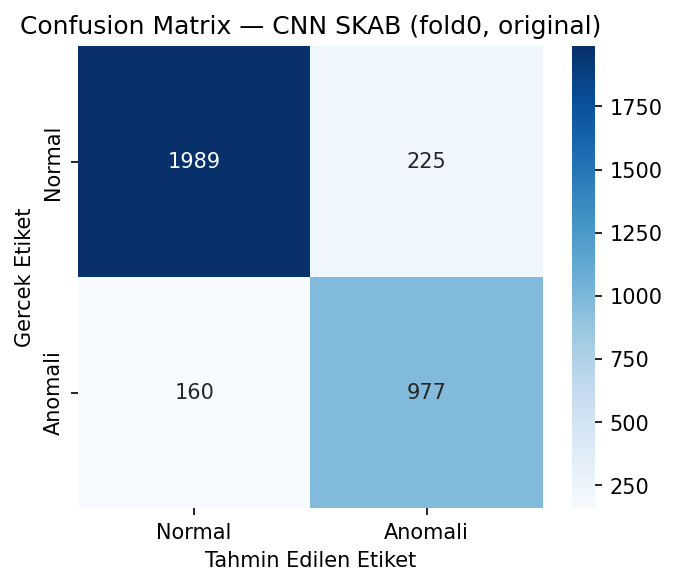
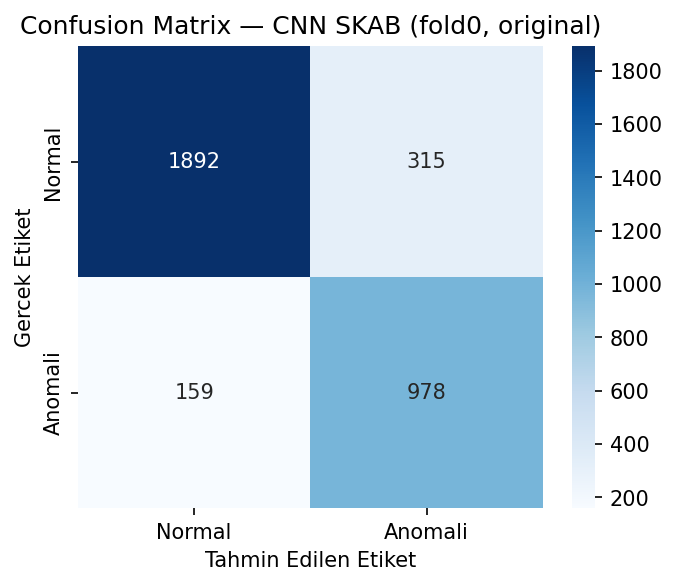
README ve gorseller yeni egitim sonuclariyla guncellendi
- SKAB tablolari yeni source_file gruplamasiyla yeniden uretilen sonuclarla guncellendi (SKAB'da en iyi F1 artik LSTM=0.9066)
- BATADAL LSTM/Automata degerleri tazelendi
- Istatistiksel analiz: SKAB'da tum model ciftleri artik anlamli (GRU vs CNN p=0.0022)
- Parametre analizi: en iyi F1 ws=5/as=5 (0.2362)
- Tum gorseller guncel results/ uzerinden yeniden uretildi

diff --git a/README.md b/README.md
@@ -36,15 +36,17 @@ Modeller yalnızca performans değil; gürültüye dayanıklılık, unseen veri 
 
 ### SKAB (Skoltech Anomaly Benchmark)
 - Kaynak: `data/raw/SKAB/valve1/` ve `valve2/` klasörleri
-- Tüm `.csv` dosyaları birleştirildi; `source_group` ve `source_file` takip sütunları eklendi
+- Tüm `.csv` dosyaları birleştirildi; `source_group` (valve1/valve2) ve `source_file` takip sütunları eklendi
+- `source_file`, klasör önekiyle benzersizleştirildi (`valve1/0.csv`, `valve2/0.csv`) — böylece iki klasördeki aynı adlı dosyalar GroupKFold'da çakışmaz ve veri sızıntısı önlenir
 - Hedef değişken: `anomaly` (0=normal, 1=anomali)
 - Model girdisi dışı sütunlar: `datetime`, `changepoint`, `source_group`, `source_file`
 - Değerlendirme: **StratifiedGroupKFold** (5 fold, `source_file` grup değişkeni)
 
 ### BATADAL (Battle of the Attack Detection ALgorithms)
 - Kaynak: `data/raw/BATADAL/BATADAL_dataset04.csv` (Training Dataset 2)
-- Hedef değişken: `ATT_FLAG` (-999 → 0 normal, 1 → saldırı)
-- Zaman sütunu (`DATETIME`) model girdisi dışı tutuldu
+- Hedef değişken: `ATT_FLAG` (-999 → 0 normal, diğer → 1 saldırı/anomali); veri dosyasında doğrulandı
+- Anomali oranı ~%5.2 (219 / 4177 kayıt)
+- 43 sensör/sistem değişkeni model girdisi; zaman sütunu (`DATETIME`) model girdisi dışı tutuldu
 - Değerlendirme: **Zaman sıralı bölme** — %60 eğitim / %20 doğrulama / %20 test
 
 ---
@@ -76,19 +78,16 @@ python main.py --dataset both --model dl --output-dir results
 python main.py --dataset both --model automata --output-dir results
 
 # Parametre analizi (window_size x alphabet_size)
-python main.py --param-analysis --dataset batadal --output-dir results
+python main.py --param-analysis --dataset both --output-dir results
 
-# DL görsellerini üret
-python generate_plots.py
-
-# Automata görsellerini üret (state diagram, heatmap vb.)
-python generate_automata_plots.py
+# Tüm görselleri üret (DL + Automata: CM/ROC/PR, state diagram, heatmap, parametre grafikleri)
+python generate_plots.py --batadal-dir results --skab-dir results --results-dir results --dataset both
 
 # İstatistiksel testleri çalıştır
-python run_statistical_tests.py
+python run_statistical_tests.py --batadal-dir results --skab-dir results --output results/statistical_tests.json
 
 # Birim testleri çalıştır
-python -m pytest tests/
+python -m pytest -q
 ```
 
 ---
@@ -126,17 +125,19 @@ yazlab2proje2/
 │       ├── plots.py          # DL görsel fonksiyonları
 │       └── automata_plots.py # Automata görsel fonksiyonları
 ├── tests/
+│   ├── conftest.py           # Ortak pytest fixture'ları (config)
 │   ├── test_data.py          # Veri pipeline birim testleri
 │   └── test_automata.py      # PAA, SAX, Levenshtein birim testleri (31 test)
 ├── main.py                   # Ana giriş noktası
-├── generate_plots.py         # DL görsel üretici
-├── generate_automata_plots.py# Automata görsel üretici
+├── generate_plots.py         # Görsel üretici (DL + Automata)
 └── run_statistical_tests.py  # McNemar istatistiksel testler
 ```
 
 **Temel tasarım kararları:**
 - Tüm parametreler `config/config.yaml`'da — hiçbir yerde hard-coded değer yok
 - Scaler ve PCA yalnızca train verisiyle `fit` edilir (data leakage önleme)
+- SAX/PAA sözlüğü ve otomata geçiş olasılıkları yalnızca train verisiyle oluşturulur
+- SKAB'da `source_file` grup değişkeni klasör önekli tutulur; aynı dosyanın kayıtları hem train hem test'te yer almaz
 - DL modelleri 5 PCA bileşeni, Automata modeli PC1 (1 bileşen) kullanır
 - Sınıf dengesizliği: DL modellerinde `pos_weight = n_neg / n_pos` ile ağırlıklı BCELoss
 
@@ -176,49 +177,49 @@ yazlab2proje2/
 
 | Model | Senaryo | F1 (mean ± std) | Accuracy | Precision | Recall |
 |-------|---------|-----------------|----------|-----------|--------|
-| LSTM | Original | 0.5813 ± 0.0717 | 0.8720 | 0.4747 | 0.8425 |
+| LSTM | Original | 0.5799 ± 0.0711 | 0.8715 | 0.4719 | 0.8425 |
 | LSTM | Noisy | 0.5462 ± 0.0986 | 0.8352 | 0.4141 | 0.9075 |
 | GRU | Original | 0.5704 ± 0.0572 | 0.8486 | 0.4045 | 0.9850 |
 | GRU | Noisy | 0.5616 ± 0.0464 | 0.8452 | 0.3958 | 0.9800 |
 | CNN | Original | 0.4666 ± 0.0899 | 0.7717 | 0.3120 | 0.9575 |
 | CNN | Noisy | 0.4270 ± 0.0840 | 0.7352 | 0.2788 | 0.9500 |
-| **Automata** | Original | 0.1556 | 0.6364 | 0.1000 | 0.3500 |
-| **Automata** | Noisy | 0.1978 | 0.6507 | 0.1268 | 0.4500 |
-| **Automata** | Unseen | 0.1556 | 0.6364 | 0.1000 | 0.3500 |
+| **Automata** | Original | 0.1522 | 0.6268 | 0.0972 | 0.3500 |
+| **Automata** | Noisy | 0.1935 | 0.6411 | 0.1233 | 0.4500 |
+| **Automata** | Unseen | 0.1522 | 0.6268 | 0.0972 | 0.3500 |
 
 ### SKAB Sonuçları (5-Fold Ortalama)
 
 | Model | Senaryo | F1 (mean ± std) | Accuracy | Precision | Recall |
 |-------|---------|-----------------|----------|-----------|--------|
-| LSTM | Original | 0.8938 ± 0.0395 | 0.9275 | 0.9216 | 0.8735 |
-| LSTM | Noisy | 0.8880 ± 0.0483 | 0.9236 | 0.9172 | 0.8681 |
-| GRU | Original | **0.9025 ± 0.0377** | 0.9332 | 0.9295 | 0.8810 |
-| GRU | Noisy | 0.8921 ± 0.0414 | 0.9267 | 0.9261 | 0.8682 |
-| CNN | Original | 0.8977 ± 0.0471 | 0.9284 | 0.9188 | 0.8830 |
-| CNN | Noisy | 0.8949 ± 0.0463 | 0.9263 | 0.9145 | 0.8817 |
-| **Automata** | Original | 0.4645 ± 0.0171 | 0.4150 | 0.3411 | 0.7287 |
-| **Automata** | Noisy | 0.4688 ± 0.0149 | 0.4167 | 0.3434 | 0.7392 |
-| **Automata** | Unseen | 0.4645 ± 0.0171 | 0.4150 | 0.3411 | 0.7287 |
+| LSTM | Original | **0.9066 ± 0.0272** | 0.9369 | 0.9383 | 0.8794 |
+| LSTM | Noisy | 0.9022 ± 0.0191 | 0.9350 | 0.9437 | 0.8674 |
+| GRU | Original | 0.8974 ± 0.0289 | 0.9296 | 0.9187 | 0.8803 |
+| GRU | Noisy | 0.9005 ± 0.0325 | 0.9316 | 0.9180 | 0.8868 |
+| CNN | Original | 0.8957 ± 0.0452 | 0.9279 | 0.9118 | 0.8836 |
+| CNN | Noisy | 0.8937 ± 0.0458 | 0.9264 | 0.9082 | 0.8826 |
+| **Automata** | Original | 0.4777 ± 0.0193 | 0.4010 | 0.3432 | 0.7886 |
+| **Automata** | Noisy | 0.4768 ± 0.0165 | 0.3947 | 0.3413 | 0.7944 |
+| **Automata** | Unseen | 0.4777 ± 0.0193 | 0.4010 | 0.3432 | 0.7886 |
 
 ### Veri Setleri Arası Karşılaştırma
 
-DL modelleri SKAB'da belirgin şekilde daha iyi performans göstermektedir (F1 ~0.90 vs ~0.58). BATADAL'da sınıf dengesizliği (yaklaşık %12 anomali) ve yüksek boyutlu sensör verisi (43 özellik → 5 PCA bileşeni) zorluğu artırmaktadır. Automata modeli PC1 tek bileşenle çalıştığından BATADAL'da bilgi kaybı daha yüksektir.
+DL modelleri SKAB'da belirgin şekilde daha iyi performans göstermektedir (F1 ~0.90 vs ~0.58). BATADAL'da sınıf dengesizliği (~%5.2 anomali) ve yüksek boyutlu sensör verisi (43 özellik → 5 PCA bileşeni) zorluğu artırmaktadır. Automata modeli PC1 tek bileşenle çalıştığından BATADAL'da bilgi kaybı daha yüksektir.
 
 ### Gürültü Etkisi Analizi
 
 Gaussian gürültü (std=0.1) eklendiğinde:
-- **DL modelleri:** F1'de ortalama ~0.03-0.05 düşüş — yüksek dayanıklılık
-- **Automata:** BATADAL'da F1 hafif artış (0.1556 → 0.1978), SKAB'da minimal değişim — gürültü bazı durumlarda anomali skorunu değiştiriyor
+- **DL modelleri:** F1 büyük ölçüde korunur — SKAB'da değişim ~0.00–0.01 (GRU gürültüyle hafifçe iyileşir bile), BATADAL'da ~0.01–0.04 düşüş. Yüksek dayanıklılık.
+- **Automata:** BATADAL'da F1 hafif artış (0.1522 → 0.1935), SKAB'da minimal değişim — gürültü bazı durumlarda anomali skorunu değiştiriyor.
 
 Genel olarak her iki model tipi de Gaussian gürültüye karşı dayanıklıdır.
 
 ### Unseen Veri Davranışı
 
 Automata modelinde test sırasında eğitim SAX sözlüğünde bulunmayan pattern'larla karşılaşıldığında Levenshtein edit distance ile en yakın bilinen pattern bulunur:
-- BATADAL: Unseen oranı ~%3 (76 state)
-- SKAB: Unseen oranı ~%0.4 (36 state)
+- BATADAL: Unseen oranı ~%2.9 (76 state)
+- SKAB: Unseen oranı ~%0.3 (≈35 state)
 
-Unseen senaryo ile original senaryo arasında performans farkı gözlemlenmemiştir — Levenshtein eşleştirme mekanizması etkin çalışmaktadır.
+Unseen senaryo ile original senaryo arasında performans farkı gözlemlenmemiştir — Levenshtein eşleştirme mekanizması her tahminde etkin çalıştığından görülmemiş pattern'lar en yakın bilinen state üzerinden işlenir.
 
 ---
 
@@ -238,11 +239,11 @@ Model farklarının istatistiksel anlamlılığı **McNemar testi** ile değerle
 
 | Karşılaştırma | Original p-değeri | Noisy p-değeri |
 |---------------|-------------------|----------------|
-| LSTM vs GRU | p = 0.0002 ✓ | p = 0.0002 ✓ |
-| LSTM vs CNN | p = 0.0002 ✓ | p < 0.0001 ✓ |
-| GRU vs CNN | p = 0.6728 ✗ | p = 0.0342 ✓ |
+| LSTM vs GRU | p < 0.0001 ✓ | p < 0.0001 ✓ |
+| LSTM vs CNN | p < 0.0001 ✓ | p < 0.0001 ✓ |
+| GRU vs CNN | p = 0.0022 ✓ | p < 0.0001 ✓ |
 
-**Yorum:** BATADAL'da tüm model çiftleri anlamlı farklılık göstermektedir. SKAB'da GRU ve CNN benzer performans sergilemekte (original senaryoda p=0.67, anlamsız), bu durum iki modelin bu veri setinde neredeyse eşdeğer olduğuna işaret etmektedir.
+**Yorum:** Hem BATADAL hem SKAB'da tüm model çiftleri istatistiksel olarak anlamlı farklılık göstermektedir (p < 0.05). SKAB'da en yüksek F1'i LSTM (0.9066) elde etmekle birlikte üç DL modeli de yüksek ve birbirine yakın performans sergilemektedir; McNemar testi bu yakın farkların dahi örnek bazında anlamlı olduğunu göstermektedir.
 
 > **Not:** Wilcoxon testi n=5 seed ile minimum p=0.0625 üretemediğinden (matematiksel sınır), daha güçlü olan McNemar testi tercih edilmiştir.
 
@@ -255,30 +256,59 @@ Automata modeli her karar için aşağıdaki bilgileri üretmektedir:
 ```json
 {
   "time_step": 5,
-  "state": "aab",
+  "state": "abc",
   "pattern": "adc",
   "status": "unseen",
   "mapped_to": "abc",
   "distance": 1,
   "transitions": {
-    "aab->abc": 0.72
+    "aab->abc": 0.72,
+    "abc->bcc": 0.15
   },
-  "transition_probability": 0.72,
-  "state_anomaly_rate": 0.031,
-  "anomaly_score": 0.412,
-  "probability": 0.72,
-  "decision": "normal",
-  "confidence": 0.908
+  "transition_probability": 0.15,
+  "path_probability": 0.108,
+  "state_anomaly_rate": 0.412,
+  "anomaly_score": 0.55,
+  "probability": 0.108,
+  "decision": "anomaly",
+  "justification": "Dusuk olasilikli path tespit edildi (beklenmeyen gecis)",
+  "confidence": 0.108
 }
 ```
 
-**Güven skoru** hesaplaması: `1.0 - |anomaly_score - threshold|`
+**Geçiş olasılıkları** frekans tabanlı öğrenilir: `P(Si → Sj) = Geçiş Sayısı / Toplam Çıkış Sayısı` (Laplace α=1e-6 ile).
+
+**Path probability:** Gözlemlenen yerel geçişlerin çarpımı — `path_probability = P(prev → current) × P(current → next)`. Düşük path olasılığı, model tarafından beklenmeyen davranış olarak yorumlanır.
+
+**Güven skoru** doğrudan geçiş olasılıklarından türetilir: `confidence = path_probability`. Düşük path olasılığı → düşük güven → beklenmeyen (anomali) davranış (örnekte 0.72 × 0.15 = 0.108).
 
 **Anomali skoru** iki sinyal birleştirilerek hesaplanır:
 - State anomali oranı (eğitimden öğrenilir): `0.6 × state_anomaly_rate`
 - Geçiş beklenmedikliği: `0.4 × (1 - transition_probability)`
 
-**Path probability:** Ardışık geçiş olasılıklarının çarpımı — `P(sequence) = ∏ P(Si → Si+1)`
+Metin (insan-okur) formatı `format_decision()` ile de üretilir:
+
+```
+[SYSTEM DECISION]
+Time Step: t = 5
+Previous State: "aab"
+Incoming Pattern: "adc"
+Status: Unseen
+Nearest Pattern: "abc" (distance = 1)
+
+Transitions:
+  aab->abc : 0.72
+  abc->bcc : 0.15
+
+Path Probability: 0.72 * 0.15 = 0.108
+
+Decision:
+  Low probability path detected
+  Result: ANOMALY
+  Confidence Score: 0.108 (Low)
+```
+
+Açıklamalar deterministik ve yeniden üretilebilirdir; modelin iç hesaplamalarıyla tutarlıdır.
 
 ---
 
@@ -288,15 +318,15 @@ Automata modeli için window_size × alphabet_size kombinasyonları BATADAL veri
 
 | window_size | alphabet_size | F1 | State Sayısı | Geçiş Yoğunluğu |
 |-------------|---------------|----|--------------|-----------------|
-| 3 | 3 | 0.2081 | 26 | 0.1050 |
+| 3 | 3 | 0.2045 | 26 | 0.1050 |
 | 4 | 3 | 0.1522 | 76 | 0.0260 |
-| 5 | 5 | 0.2127 | 367 | 0.0032 |
-| 6 | 3 | **0.2440** | 200 | 0.0065 |
-| 6 | 6 | 0.1718 | 375 | 0.0028 |
+| 5 | 4 | 0.2237 | 298 | 0.0042 |
+| 5 | 5 | **0.2362** | 367 | 0.0032 |
+| 6 | 4 | 0.1964 | 304 | 0.0038 |
 
 **Gözlemler:**
 - Alphabet size artışı → daha fazla state → geçiş yoğunluğu düşer
-- En iyi F1: ws=6, as=3 (0.2440) — küçük alfabe ile geniş pencere en iyi dengeyi sağlıyor
+- En iyi F1: ws=5, as=5 (0.2362) — orta-geniş pencere ile orta alfabe en iyi dengeyi sağlıyor
 - Yüksek state sayısı modeli daha açıklayıcı yapar ancak seyrek geçiş matrisine yol açar
 
 ---
@@ -306,10 +336,16 @@ Automata modeli için window_size × alphabet_size kombinasyonları BATADAL veri
 ### Model Karşılaştırmaları
 
 **BATADAL — DL vs Automata**
-![DL vs Automata BATADAL](plots/automata/dl_vs_automata_BATADAL.png)
+![DL vs Automata BATADAL](plots/batadal/dl_vs_automata_BATADAL.png)
 
 **SKAB — DL vs Automata**
-![DL vs Automata SKAB](plots/automata/dl_vs_automata_SKAB.png)
+![DL vs Automata SKAB](plots/skab/dl_vs_automata_SKAB.png)
+
+**Tüm Metrikler — BATADAL (LSTM/GRU/CNN/Automata)**
+![All Metrics BATADAL](plots/batadal/all_metrics_BATADAL.png)
+
+**Tüm Metrikler — SKAB**
+![All Metrics SKAB](plots/skab/all_metrics_SKAB.png)
 
 **Cross-Dataset Karşılaştırma**
 ![Cross Dataset](plots/cross_dataset_comparison.png)
@@ -339,33 +375,33 @@ Automata modeli için window_size × alphabet_size kombinasyonları BATADAL veri
 ### Automata State Diagram
 
 **BATADAL** — Düğüm rengi anomali oranını gösterir (yeşil=normal, kırmızı=anomali)
-![State Diagram BATADAL](plots/automata/state_diagram_BATADAL.png)
+![State Diagram BATADAL](plots/batadal/state_diagram_BATADAL.png)
 
 **SKAB**
-![State Diagram SKAB](plots/automata/state_diagram_SKAB.png)
+![State Diagram SKAB](plots/skab/state_diagram_SKAB.png)
 
 ---
 
 ### Transition Probability Heatmap
 
 **BATADAL**
-![Heatmap BATADAL](plots/automata/transition_heatmap_BATADAL.png)
+![Heatmap BATADAL](plots/batadal/transition_heatmap_BATADAL.png)
 
 **SKAB**
-![Heatmap SKAB](plots/automata/transition_heatmap_SKAB.png)
+![Heatmap SKAB](plots/skab/transition_heatmap_SKAB.png)
 
 ---
 
 ### Parametre Duyarlılık Grafikleri
 
 **BATADAL — F1 Heatmap (Window Size × Alphabet Size)**
-![Param F1 BATADAL](plots/automata/param_f1_heatmap_BATADAL.png)
+![Param F1 BATADAL](plots/batadal/param_f1_heatmap_BATADAL.png)
 
 **BATADAL — State Sayısı Heatmap**
-![Param States BATADAL](plots/automata/param_states_heatmap_BATADAL.png)
+![Param States BATADAL](plots/batadal/param_states_heatmap_BATADAL.png)
 
 **BATADAL — Parametre Duyarlılık Çizgi Grafiği**
-![Param Sensitivity BATADAL](plots/automata/param_sensitivity_BATADAL.png)
+![Param Sensitivity BATADAL](plots/batadal/param_sensitivity_BATADAL.png)
 
 ---
 
